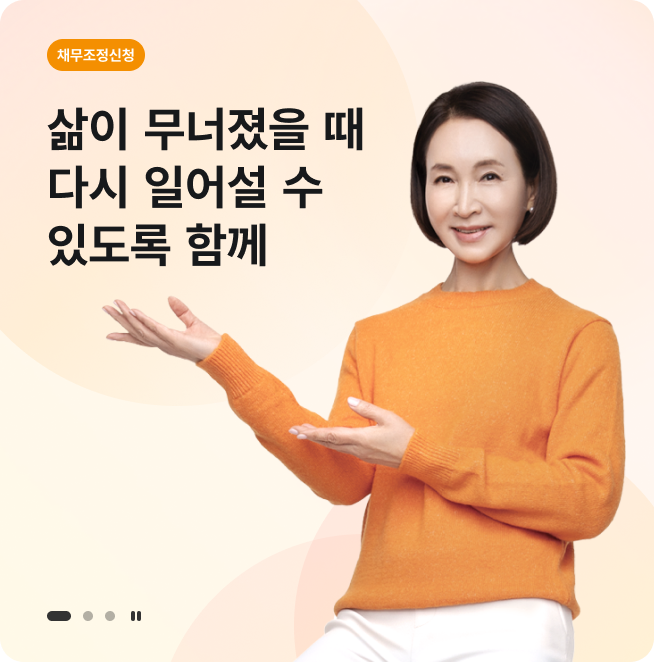
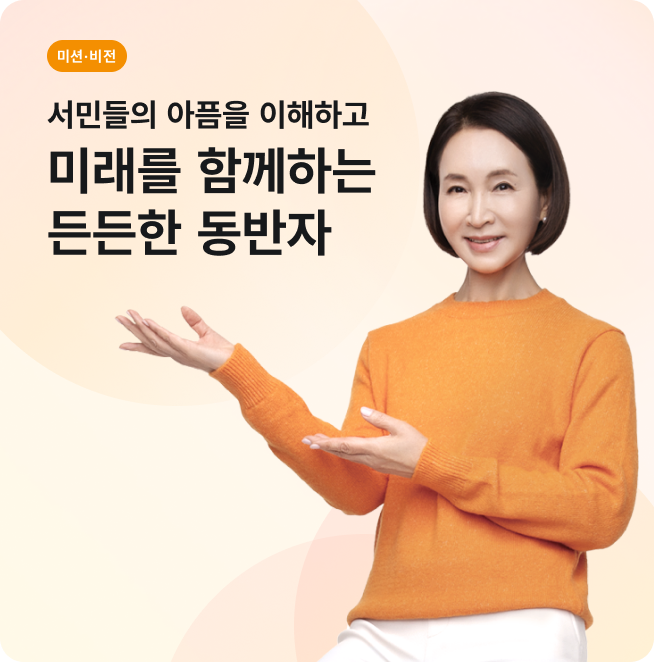
메인 원복

diff --git a/html/type_적용.html b/html/type_적용.html
@@ -84,6 +84,7 @@
 							<ul class="header-quickmenu-list">
 								<li><a href="http://cyber.ccrs.or.kr/" target="_self"><span class="typo">사이버상담부</span></a></li>
 								<li><a href="https://www.educredit.or.kr/" target="_self"><span class="typo">신용교육원</span></a>
+								<li><a href="https://counselor.ccrs.or.kr/ccedu/main/main.do" target="_self"><span class="typo">신용상담사</span></a>
 								</li>
 							</ul><!-- /cyber/index.do -->
 						</div>
@@ -212,27 +213,25 @@
 						<!-- 메인 컨텐츠 -->
 						<div class="main-section">
 							<!-- 좌측 메인 배너 -->
-							<div class="main-banner01">
-								<div class="swiper-container banner01" id="slider">
+							<!-- 좌측 메인 배너 -->
+							<div class="main-banner slidebox" style="max-width: 654px;overflow: hidden;">
+								<div class="swiper-container" id="slider" style="width: 100%;">
 									<div class="swiper-wrapper">
-										<div class="swiper-slide">
+										<div class="swiper-slide">                      
+											<img src="../type/www/images/img/photo-ari00.png" alt="">
+										</div>
+										<div class="swiper-slide">                      
 											<img src="../type/www/images/img/photo-ari01.png" alt="">
-											<div class="tagname">미션미전</div>
-											<div class="subTxt">서민들의 아픔을 이해하고</div>
-											<div class="mainTxt">미래를 함께하는<br>든든한 동반자</div>
 										</div>
 										<div class="swiper-slide">       
-											<img src="../type/www/images/img/photo-ari.png" alt="">
-											<div class="tagname">채무조정</div>
-											<div class="subTxt">삶이 무너졌을 때</div>
-											<div class="mainTxt">다시 일어설 수<br>있도록 함께</div>
+											<img src="../type/www/images/img/photo-ari.png" alt="">               
 										</div>
 										
 									</div>
 									<div class="swiper-pagination"></div>
 								</div>
 								<script>
-									var swiper = new Swiper(".banner01", {
+									var swiper = new Swiper(".swiper-container", {
 									spaceBetween: 0,
 									centeredSlides: true,
 									// autoplay: {
@@ -240,7 +239,7 @@
 									// 	disableOnInteraction: false,
 									// },
 									loop:true,
-									loopedSlides: 2,
+									loopedSlides: 3,
 									pagination: {
 										el: ".swiper-pagination",
 										clickable: true,
@@ -250,7 +249,7 @@
 							</div>
 		
 							<!-- 중앙 진단 카드 -->
-							<div class="main-banner02">
+							<div class="main-banner">
 								<div class="top">
 									<img src="../type/www/images/img/photo-ari02.png" alt="">
 								</div>
@@ -260,9 +259,10 @@
 							</div>
 		
 							<!-- 우측 길잡이 카드 -->
-							<div class="main-banner03">
+							<div class="main-banner">
 								<div class="top">
-									<div class="hoverline">
+									<img src="../type/www/images/img/photo-ari04.png" alt="">
+									<!-- <div class="hoverline">
 										<ul>
 											<li>
 												<p>신속채무조정 <span>연체 30일 이하</span></p>
@@ -281,18 +281,22 @@
 												<p class="sub">여러분의 새로운 시작을 응원합니다.</p>
 											</li>
 										</ul>
-									</div>
+									</div> -->
 								</div>
 								<div class="bottom">
-									<div class="swiper-container " id="mainslider02">
+									<img src="../type/www/images/img/photo-ari05.png" alt="">
+									<!-- <div class="swiper-container " id="mainslider02">
 										<div class="swiper-wrapper">
 											<div class="swiper-slide">
 												<img src="../type/www/images/img/photo-ari05.png" alt="">
-												<div class="ban-txt"><span>해외동포를 위한</span><br><span>개인채무조정제도</span></div>
+												<div class="ban-txt">
+													<span>해외동포를 위한</span><br>
+													<span>개인채무조정제도</span>
+												</div>
 											</div>
 											
 										</div>
-									</div>
+									</div> -->
 									
 									
 								</div>
@@ -301,7 +305,7 @@
 		
 						<!-- 하단 섹션 -->
 						<div class="bottom-section">
-							<div class="consulting-section">
+							<!-- <div class="consulting-section" style="display: none;">
 								<h2 class="intro-title"></h2>
 								<div class="intro-buttons">
 									<button class="intro-btn">
@@ -317,7 +321,7 @@
 										</svg>
 									</button>
 								</div>
-							</div>
+							</div> -->
 							<div class="intro-section">
 								<h2 class="intro-title">신용회복위원회는 이런 곳입니다.</h2>
 								<div class="intro-buttons">

diff --git a/type/www/css/main.css b/type/www/css/main.css
@@ -142,6 +142,13 @@
 }
 
 /* 메인 컨텐츠 스타일 */
+main .container {
+    max-width: 1596px;
+    margin: 0 auto;
+    padding: 0;
+    position: relative;
+}
+
 section {
     margin: 0 auto;
 }
